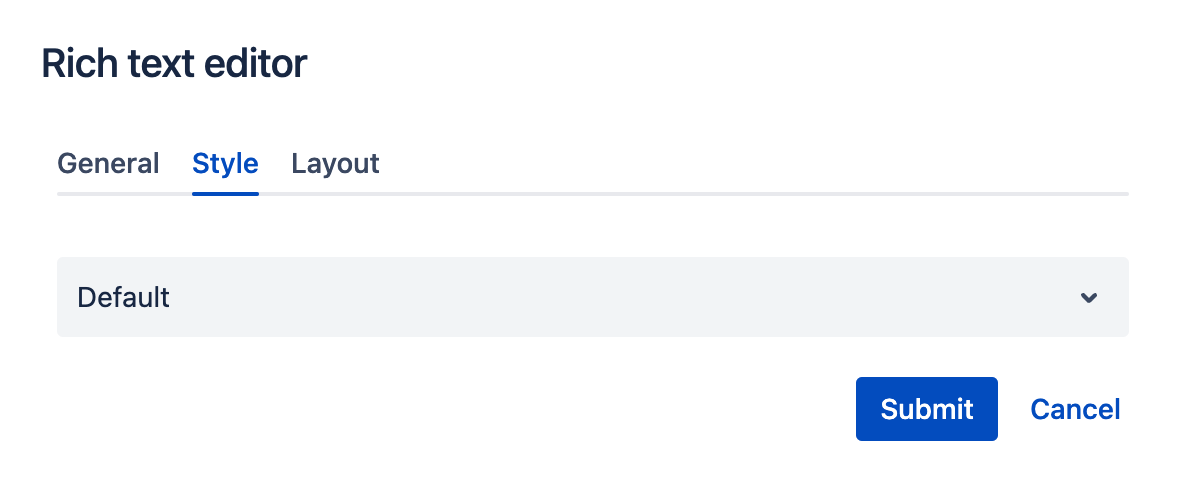
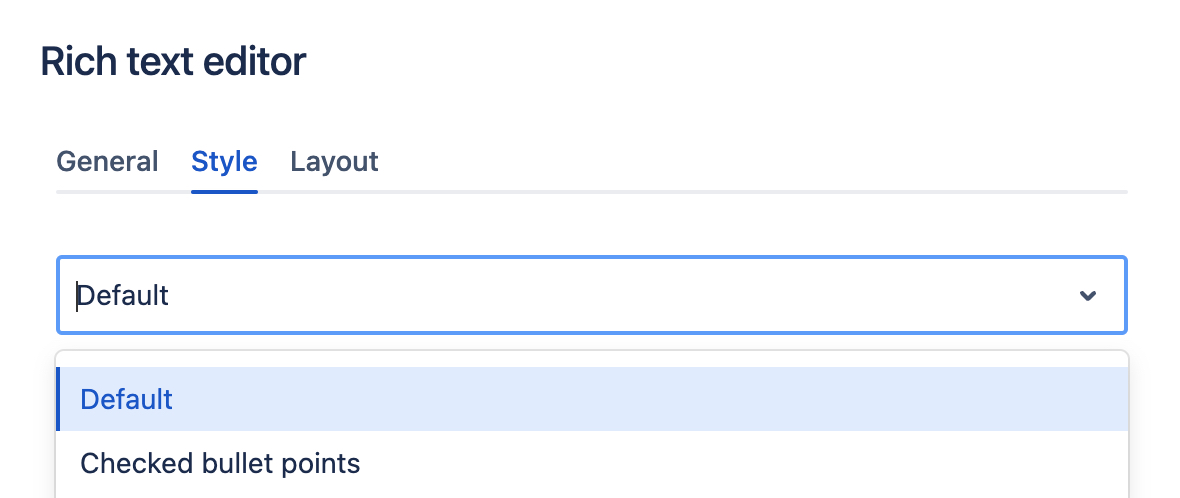
more precise RTE doc, consistent screenshots

diff --git a/docs/guides/authoring/howlite/rte/index.md b/docs/guides/authoring/howlite/rte/index.md
@@ -1,31 +1,38 @@
 # RTE Component
 
 ## Usage
-A Rich Text Editor allows editors to create short or long-form text content across pages.
+A Rich Text Editor allows editors to create text content (paragraphs with headings, bullet lists, links and more) across pages.
 
-To add drag & drop RTE component to a Page Section.
+Drag & drop RTE component to a Page Section. A simple paragraph with "lorem ipsum" content will be rendered on a page:
 
 <p align="center" width="100%">
-    <img src="./rte-edit.jpg" alt="Rich Text Editor">
+    <img class="image--with-border" src="./rte-edit.jpg" alt="Rich Text Editor">
 </p>
 
 
 ## Authorable properties
 Click the "Edit" icon on the *RTE* component to see its properties:
 
-- On the **General** tab, you can add:
-    - Text - with a wide range of functionality for editing the text to make it bold, italics, listed, linked or using any other formatting.
-    
+On the **General** tab, you can add:
+  
+  - **Text** -  with a wide range of functionalities. You can:
+      - add a new Paragraph or Heading (with level 1 to 6)
+      - select some words and make it bold / italic / underlined or crossed.
+      - add a link
+      - create bullet points or ordered list
+      - align text to the left / center / right or with "justify" option.
+      - add a new line (__br__ html tag). Please note that pressing "Enter" tab in RTE results in a new paragraph. If you click "New Line" Icon - new line will be added inside the same paragraph.
+      - clear formatting
 
 <p align="center" width="100%">
-    <img src="./dialog-rte.jpg" alt="Quote component" width="600px">
+    <img class="image--with-border" src="./dialog-rte.jpg" alt="Quote component" width="600px">
 </p>
 
 
 - You can set the Style for the RTE using the **Style** tab:
 
 <p align="center" width="100%">
-    <img src="./dialog-styles.jpg" alt="Quote styles" width="600px">
+    <img class="image--with-border"  src="./dialog-styles.jpg" alt="Quote styles" width="600px">
 </p>
 
 - You can resize the RTE as any other component using the **Layout** tab. (See [grid](../grid) description for details.)
@@ -33,15 +40,15 @@ Click the "Edit" icon on the *RTE* component to see its properties:
 
 ## Rendered component
 
-RTE with customized style with **Default**:
+RTE with **Default** style variant:
 
 <p align="center" width="100%">
-    <img src="./rte-example.jpg" alt="Rendered Rich Text" width="900px">
+    <img class="image--with-border"  src="./rte-example.jpg" alt="Rendered Rich Text" width="900px">
 </p>
 
 
-RTE with customized style with **Checked bullet points**:
+RTE with **Checked bullet points** style variant:
 
 <p align="center" width="100%">
-    <img src="./rte-example-checked-list.jpg" alt="Rendered Rich Text" width="900px">
+    <img class="image--with-border" src="./rte-example-checked-list.jpg" alt="Rendered Rich Text" width="900px">
 </p>

diff --git a/docs/guides/authoring/howlite/quote/index.md b/docs/guides/authoring/howlite/quote/index.md
@@ -29,7 +29,7 @@ On the **General** tab you can add:
 You can change the Style for the Quote using the **Style** tab. Smaller variant will decrease the quote's font-size.
 
 <p align="center" width="100%">
-    <img src="./dialog-styles.jpg" alt="Quote styles" width="600px">
+    <img class="image--with-border" src="./dialog-styles.jpg" alt="Quote styles" width="500px">
 </p>
 
 You can also resize the Quote as any other component using the **Layout** tab. (See [grid](../grid) description for details.)
@@ -40,7 +40,7 @@ You can also resize the Quote as any other component using the **Layout** tab. (
 An example Quote:
 
 <p align="center" width="100%">
-    <img src="./quote.jpg" alt="Rendered Quote" width="900px">
+    <img class="image--with-border" src="./quote.jpg" alt="Rendered Quote">
 </p>
 
 
